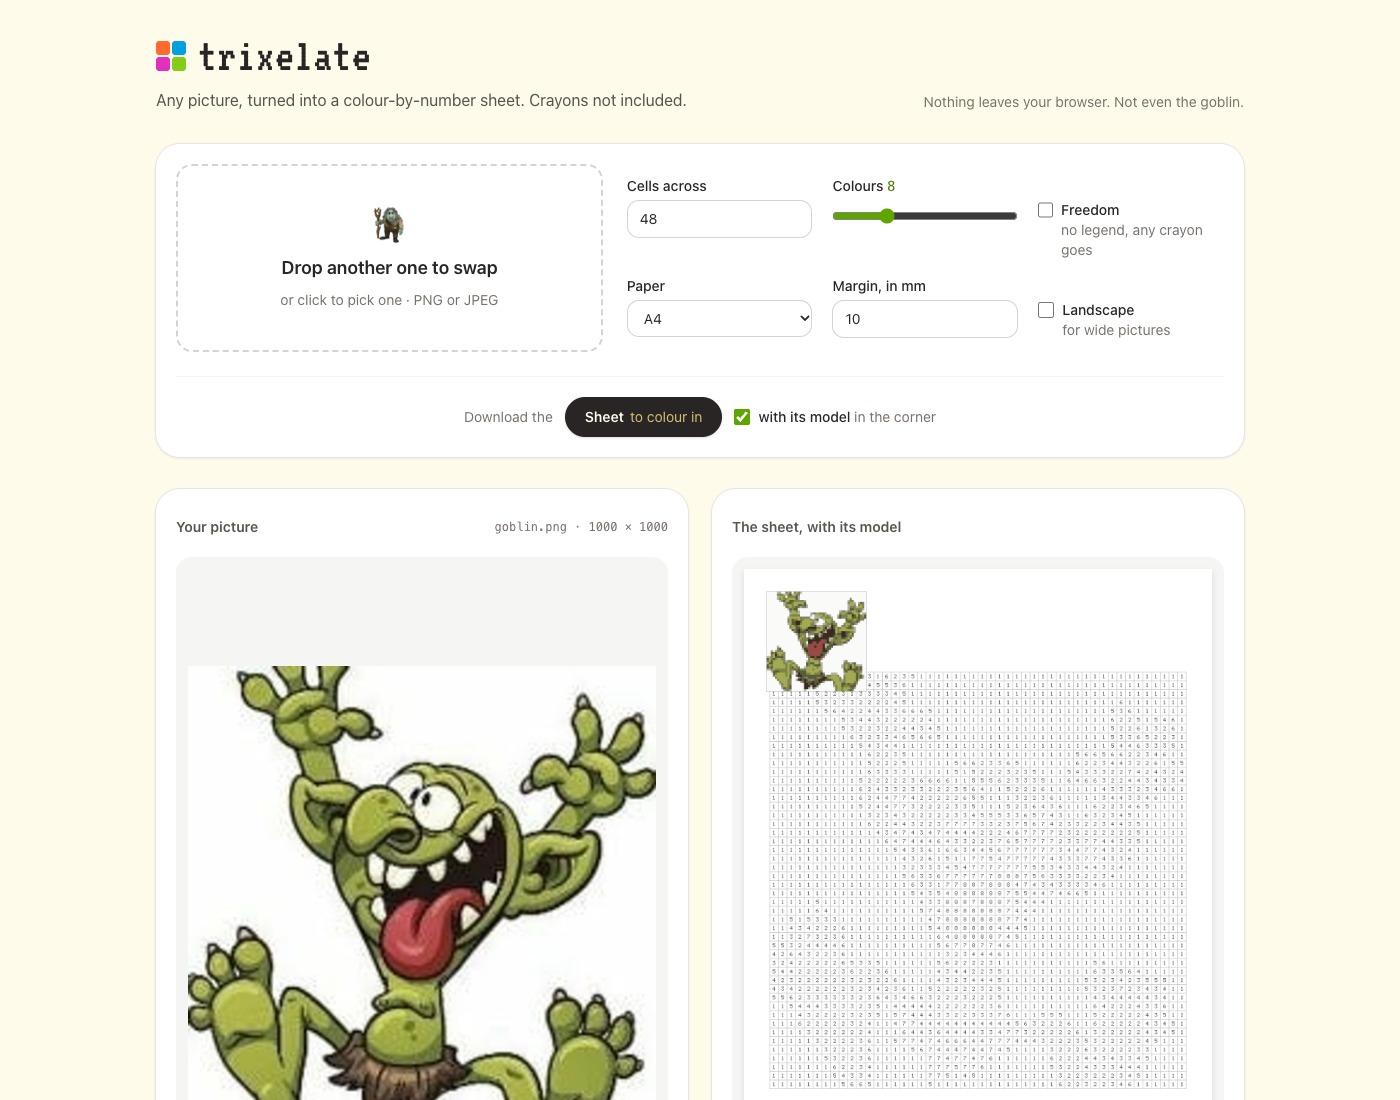
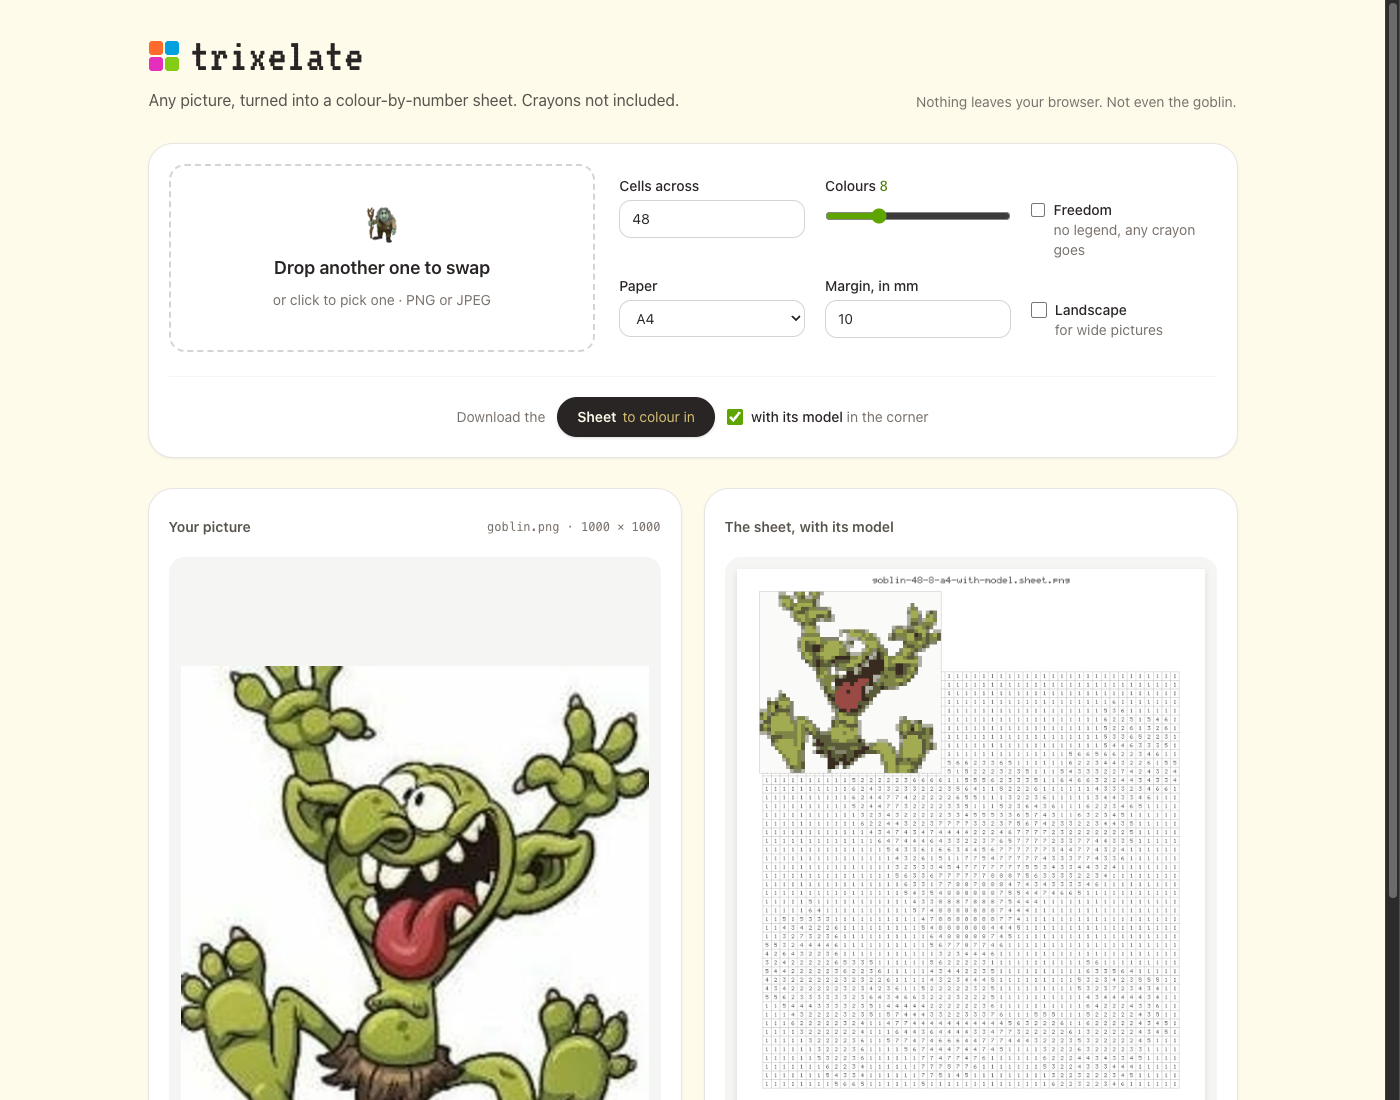
docs: the model sits over the grid's corner upright and beside it on its side, the sheet titled with its file name, as the samples and the page show

diff --git a/README.md b/README.md
@@ -11,7 +11,7 @@ trixelate reads a PNG or a JPEG, simplifies it into a grid of square cells, find
 ## Why
 
 - **Made for children**: big square cells outlined in light grey, numbers in dark grey rather than black, and a legend whose numbers stay readable on dark and light bubbles.
-- **A model when it helps**: `--with-model` sets the picture in miniature over the sheet's top left corner, in its colours and without numbers, for the youngest to see what they are making, and `--freedom` gives only the numbers, leaving the colours to the child.
+- **A model when it helps**: `--with-model` sets the picture in miniature in the page's top left corner, in its colours and without numbers, for the youngest to see what they are making, and titles the sheet with its file name; `--freedom` gives only the numbers, leaving the colours to the child.
 - **Ready to print**: A3, A4 or A5, portrait or landscape, at 300 dots per inch, the resolution written in the PNG so the printer keeps the paper's size.
 - **Safe by default**: a sheet that would not fit, cells too small for their numbers or a margin too wide is refused with what to try instead; an existing sheet is never overwritten without `--force`.
 - **Small**: the library needs only `png` and `zune-jpeg`, the command line adds `clap`, the page adds Leptos; the digits and letters are drawn from a five-by-seven pixel font, with no font file.
@@ -43,7 +43,7 @@ trixelate [OPTIONS] <PICTURE>
 | `--landscape` | Lay the paper on its side, for wide pictures | upright |
 | `-m`, `--margin` | The blank paper around the sheet, in millimetres | 10 |
 | `--freedom` | No legend: the numbers only group the cells, and the child picks the colours | |
-| `--with-model` | The model in miniature in the page's top left corner, a quarter of the grid wide and over it where they meet, the picture in its colours to copy from | |
+| `--with-model` | The model in miniature in the page's top left corner, the picture in its colours to copy from, and the sheet's file name as its title | |
 | `-o`, `--output` | Where to write the sheet | beside the picture, named after it and its settings, so variants never overwrite each other: `goblin-48-8-a4.sheet.png`, `goblin-32-24-a5-landscape-with-model.sheet.png`, `goblin-48-8-a4-freedom.sheet.png` |
 | `--force` | Overwrite the sheet if it already exists | |
 | `-y`, `--yes` | Go ahead without being asked when warned: under 16 cells across it is big cubes, under 4 colours solid patches, more than pixel art | asks |
@@ -55,7 +55,7 @@ A goblin turned into a sheet to colour with `trixelate sample/goblin.png`, and i
 
 | Picture | Sheet | With its model |
 | --- | --- | --- |
-| ![A cheerful green goblin, arms up, sticking out its red tongue](sample/goblin.png) | ![The goblin as a colour-by-number sheet: a grid of numbered cells above a legend of eight coloured bubbles](sample/goblin.sheet.png) | ![The goblin's sheet with its model: the same grid, the goblin in miniature and in colour in the page's top left corner, over the grid's corner](sample/goblin.with-model.png) |
+| ![A cheerful green goblin, arms up, sticking out its red tongue](sample/goblin.png) | ![The goblin as a colour-by-number sheet: a grid of numbered cells above a legend of eight coloured bubbles](sample/goblin.sheet.png) | ![The goblin's sheet with its model: the same grid, the goblin in miniature and in colour in the page's top left corner, over the grid's corner, the file name on top](sample/goblin.with-model.png) |
 
 ## In the browser
 
@@ -77,10 +77,10 @@ make web-build  # a static site in crates/trixelate-web/dist, for any host
 3. **The palette is cut from the cells' colours**: the box of colours that spreads the most is cut through the middle of its widest channel until there are as many boxes as colours asked, and each box gives its weighted average. Far-apart colours are never merged, and colour 1 is the one used most.
 4. **Every cell takes the number of its nearest palette colour**, and a colour no cell takes is dropped, so every bubble has cells to colour.
 5. **The layout gives the cells the largest square side the page allows**, inside the margin and above the legend, and the largest digits each cell and bubble can hold.
-6. **A model sits in miniature in the page's top left corner**, inside the margin, a quarter of the grid's width and over the grid where they meet, a block of colour per cell, framed, with no number and no line.
+6. **A model sits in miniature in the page's top left corner**, inside the margin, a block of colour per cell, framed, with no number and no line. Upright, it is seven sixteenths of the grid's width and over the grid where they meet. On its side, it sits beside the grid, which moves to the right and grows as tall as the room, the model filling the room left from a quarter to half the grid's width, the legend in rows below it. The sheet is then titled with its file name, as big as the bubbles' numbers.
 7. **A small credit is written at the bottom right**, in the margin: trixelate and its licence.
 
-![A twelve-colour sheet on A5 with its model: the grid of numbered cells, the twelve colours in miniature over its top left corner, the legend below](crates/trixelate-cli/tests/golden/twelve-a5-with-model.sheet.png)
+![A twelve-colour sheet on A5 with its model: the grid of numbered cells, the twelve colours in miniature over its top left corner, the legend below, the file name on top](crates/trixelate-cli/tests/golden/twelve-a5-with-model.sheet.png)
 
 The workspace holds the library, `crates/trixelate`, the command line, `crates/trixelate-cli`, and the page, `crates/trixelate-web`. The library takes bytes and gives bytes, with no file or terminal in it, so it can also run in a browser as WebAssembly. The words it uses are in the [glossary](GLOSSARY.md).
 

diff --git a/GLOSSARY.md b/GLOSSARY.md
@@ -11,11 +11,12 @@ The words trixelate's code and docs use, read before naming anything.
 | **Colour number** | A colour's place in the palette, from 1, written in every cell to paint with it. |
 | **Colouring** | A grid's cells, each with its colour number, and the palette they are numbered from. |
 | **Sheet** | The page printed for the child: the grid of numbered cells and its legend. |
-| **Model** | The picture in miniature in the page's top left corner, a quarter of the grid wide and over it where they meet, a block of colour per cell with no number and no line, for the child to see what they are making. |
+| **Model** | The picture in miniature in the page's top left corner, a block of colour per cell with no number and no line, for the child to see what they are making. Upright, it is seven sixteenths of the grid wide and over the grid where they meet; on its side, it sits beside the grid, filling the room the grid leaves, from a quarter to half the grid's width. |
 | **Page format** | The paper the sheet is drawn for, A3, A4 or A5, at 300 dots per inch. |
 | **Orientation** | Which way up the paper lies: portrait, upright, or landscape, on its side. |
-| **Margin** | The blank paper around the sheet's content, 20 mm unless asked otherwise. |
-| **Legend** | The row of bubbles at the bottom of a sheet, left out in freedom. |
+| **Margin** | The blank paper around the sheet's content, 10 mm unless asked otherwise. |
+| **Legend** | The row of bubbles at the bottom of a sheet, or the rows below the model on a landscape sheet with its model, left out in freedom. |
 | **Freedom** | A sheet with no legend: the numbers only group the cells, and the child picks the colours; it has no model. |
 | **Credit** | The small line at the bottom right of every sheet, in its margin: trixelate and its licence. |
+| **Title** | The sheet's file name, centred in the top margin of a sheet with its model, as big as the bubbles' numbers. |
 | **Bubble** | A disc filled with one palette colour, its colour number written inside. |
